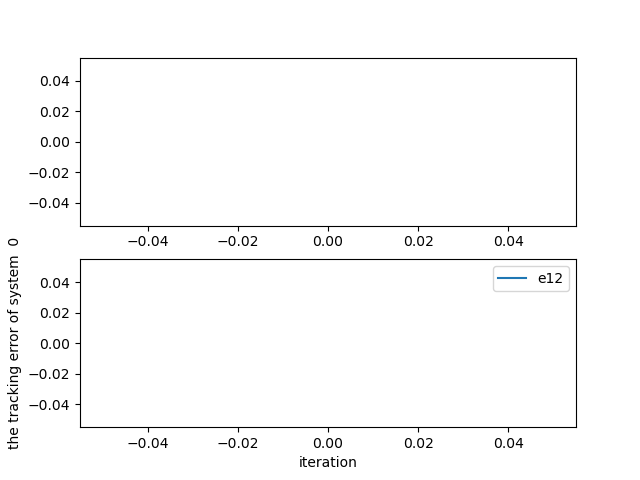
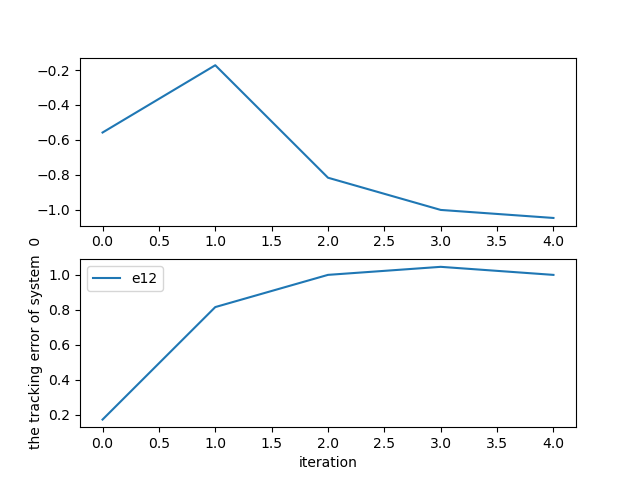
fail

diff --git a/main.py b/main.py
@@ -1,9 +1,11 @@
+import random
+
 from simulation import update_x, update_xd, update_X, compute_deltaV, compute_VX, Gx,compute_X, compute_x_from_X, compute_e_xd_from_X
 from ac import compute_critic_activate, compute_critic, init_critic_weight, compute_actor_activate, compute_actor, \
     init_actor_weight, compute_u, compute_PHI_THETA_C
 import numpy as np
-import torch as th
-import math
+
+from constant import Constant
 
 from plot import draw_weight, draw_x_xd, draw_value
 
@@ -13,70 +15,98 @@ def step(U, t, x, xd, p):
     # print(x, xd)
     return next_x, next_xd
 
-def update_ac2(History, Wc, Wa, N0):
+def update_ac2(History, Wc, Wa):
     Wa_new = []
     Wc_new = []
     for i in range(3):
         first = np.zeros((52, 52))
         second = np.zeros((52, 1))
-        for p in range(N0):
+        count = 0
+        for p in range(len(History)):
             X, U, Xnext, Unext = History[p]
-            PHI_p, THETA_p, C_p = compute_PHI_THETA_C(X[i], Xnext[i], U[i], Unext[i], Wc[i], Wa[i])
+            try:
+                PHI_p, THETA_p, C_p = compute_PHI_THETA_C(X[i], Xnext[i], U[i], Unext[i], Wc[i], Wa[i])
+            except:
+                continue
+            # print(PHI_p.T.shape, C_p.shape)
+            if np.isnan(PHI_p).any() or np.isnan(THETA_p).any() or np.isnan(C_p).any():
+                continue
+
+            count += 1
             first += np.matmul(PHI_p.T, PHI_p)
             second += PHI_p.T * C_p
-            # print(C_p)
 
-        # print(first, second)
-        new_THETA = np.matmul(np.matrix(first).I, second)
+        print(i, 'real_N0', count)
+        try:
+            new_THETA = np.matmul(np.matrix(first).I, second)
+        except:
+            Wc_new.append(Wc[i])
+            Wa_new.append(Wa[i])
+            print(i, 'fail compute theta')
+            continue
+
         # print(new_THETA)
         Wc_new.append(new_THETA[:18])
         Wa_new.append(new_THETA[18:])
     # print(Wc_new, Wa_new)
     return Wc_new, Wa_new
 
-def train2(num=50, N0=56):
-    record = []
+def train2(n_round=625, n_step = 5, n_train=20, n_test=21):
     W_critic = [init_critic_weight() for _ in range(3)]
     W_actor = [init_actor_weight() for _ in range(3)]
     p = [(np.random.rand(3, 1)-0.5) * 2 for _ in range(3)]
 
-    System = {
-        'x': [[np.random.rand(2, 1) for _ in range(3)] for _ in range(N0)],
-        'xd': [[np.random.rand(2, 1) for _ in range(3)] for _ in range(N0)],
-    }
 
-    for i in range(num):
-        # print(W_critic)
+    w_record = []
+    w_record.append([W_critic, W_actor])
+    for iter in range(n_train):
+        print(iter, 'sample and train')
+
         history = []
-        for m in range(N0):
-            X = [compute_X(xi - xdi, xdi) for xi, xdi in zip(System['x'][m], System['xd'][m])]
-            U = [compute_u(X[i], W_actor[i])[0, 0] for i in range(3)]
-            x_next, xd_next = step(U, i, System['x'][m], System['xd'][m], p)
+        for i in range(n_round):
+            x = [np.random.rand(2, 1) for _ in range(3)]
+            xd = [np.random.rand(2, 1) for _ in range(3)]
+            for t in range(n_step):
+                X = [compute_X(xi - xdi, xdi) for xi, xdi in zip(x, xd)]
+                U = [compute_u(X[i], W_actor[i])[0, 0] for i in range(3)]
 
-            X_next = [compute_X(xi - xdi, xdi) for xi, xdi in zip(x_next, xd_next)]
-            U_next = [compute_u(X_next[i], W_actor[i])[0,0] for i in range(3)]
-            history.append([X, U, X_next, U_next])
+                x_next, xd_next = step(U, t, x, xd, p)
+                # print(x_next)
+                X_next = [compute_X(xi - xdi, xdi) for xi, xdi in zip(x_next, xd_next)]
+                U_next = [compute_u(X_next[i], W_actor[i])[0, 0] for i in range(3)]
+                history.append([X, U, X_next, U_next])
 
-            System['x'][m] = x_next
-            System['xd'][m] = xd_next
+                x = x_next
+                xd = xd_next
 
-            if p == 0:
-                record.append(
-                    [W_critic, W_actor,
-                     [System['x'][0], System['xd'][0]], U])
 
-        W_critic, W_actor = update_ac2(history, W_critic, W_actor, N0)
+        W_critic, W_actor = update_ac2(history, W_critic, W_actor)
+        w_record.append([W_critic, W_actor])
 
-    return record
+    print('test')
+
+    test_record = []
+    x = [np.random.rand(2, 1) for _ in range(3)]
+    xd = [np.random.rand(2, 1) for _ in range(3)]
+    for t in range(n_test):
+
+        X = [compute_X(xi - xdi, xdi) for xi, xdi in zip(x, xd)]
+        U = [compute_u(X[i], W_actor[i])[0, 0] for i in range(3)]
+
+        test_record.append([(x, xd), U])
+        x_next, xd_next = step(U, t, x, xd, p)
+        # print(x_next)
+        x = x_next
+        xd = xd_next
+
+    return w_record, test_record
 
 
 if __name__ == '__main__':
-    record = train2(2)
-    u_list = [rc[3] for rc in record]
-    draw_value(u_list, 'The Control Input')
+    w_record, test_record = train2()
 
-    Wc_history = [[rc[0][i] for rc in record] for i in range(3)]
-    Wa_history = [[rc[1][i] for rc in record] for i in range(3)]
+    Wc_history = [[rc[0][i] for rc in w_record] for i in range(3)]
+    Wa_history = [[rc[1][i] for rc in w_record] for i in range(3)]
 
     for index, history in enumerate(Wc_history):
         draw_weight(history, 'The critic NN weight of system ' + str(index))
@@ -84,6 +114,9 @@ if __name__ == '__main__':
     for index, history in enumerate(Wa_history):
         draw_weight(history, 'The actor NN weight of system ' + str(index))
 
-    x_xd = [rc[2] for rc in record]
+    x_xd = [rc[0] for rc in test_record]
     draw_x_xd(x_xd)
+
+    u_list = [rc[1] for rc in test_record]
+    draw_value(u_list, 'The Control Input')
 

diff --git a/main_despart_test.py b/main_despart_test.py
@@ -1,0 +1,92 @@
+from simulation import update_x, update_xd, update_X, compute_deltaV, compute_VX, Gx,compute_X, compute_x_from_X, compute_e_xd_from_X
+from ac import compute_critic_activate, compute_critic, init_critic_weight, compute_actor_activate, compute_actor, \
+    init_actor_weight, compute_u, compute_PHI_THETA_C
+import numpy as np
+import torch as th
+import math
+
+from plot import draw_weight, draw_x_xd, draw_value
+
+def step(U, t, x, xd, p):
+    next_x = update_x(x, U, p, t)
+    next_xd = update_xd(xd)
+    # print(x, xd)
+    return next_x, next_xd
+
+def update_ac2(History, Wc, Wa, N0):
+    Wa_new = []
+    Wc_new = []
+    for i in range(3):
+        first = np.zeros((52, 52))
+        second = np.zeros((52, 1))
+        for p in range(N0):
+            X, U, Xnext, Unext = History[p]
+            PHI_p, THETA_p, C_p = compute_PHI_THETA_C(X[i], Xnext[i], U[i], Unext[i], Wc[i], Wa[i])
+            first += np.matmul(PHI_p.T, PHI_p)
+            second += PHI_p.T * C_p
+            # print(C_p)
+
+        # print(first, second)
+        new_THETA = np.matmul(np.matrix(first).I, second)
+        # print(new_THETA)
+        Wc_new.append(new_THETA[:18])
+        Wa_new.append(new_THETA[18:])
+    # print(Wc_new, Wa_new)
+    return Wc_new, Wa_new
+
+def train2(num=50, N0=56):
+    record = []
+    W_critic = [init_critic_weight() for _ in range(3)]
+    W_actor = [init_actor_weight() for _ in range(3)]
+    p = [(np.random.rand(3, 1)-0.5) * 2 for _ in range(3)]
+
+    test_x = [np.random.rand(2, 1) for _ in range(3)]
+    test_xd = [np.random.rand(2, 1) for _ in range(3)]
+
+    for i in range(num):
+        # print(W_critic)
+        System = {
+            'x': [[np.random.rand(2, 1) for _ in range(3)] for _ in range(N0)],
+            'xd': [[np.random.rand(2, 1) for _ in range(3)] for _ in range(N0)],
+        }
+        history = []
+        for m in range(N0):
+            X = [compute_X(xi - xdi, xdi) for xi, xdi in zip(System['x'][m], System['xd'][m])]
+            U = [compute_u(X[i], W_actor[i])[0, 0] for i in range(3)]
+            x_next, xd_next = step(U, i, System['x'][m], System['xd'][m], p)
+            # print(x_next)
+            X_next = [compute_X(xi - xdi, xdi) for xi, xdi in zip(x_next, xd_next)]
+            U_next = [compute_u(X_next[i], W_actor[i])[0,0] for i in range(3)]
+            history.append([X, U, X_next, U_next])
+
+        X = [compute_X(xi - xdi, xdi) for xi, xdi in zip(test_x, test_xd)]
+        U = [compute_u(X[i], W_actor[i])[0, 0] for i in range(3)]
+        x_next, xd_next = step(U, i, test_x, test_xd, p)
+
+        record.append(
+            [W_critic, W_actor,
+             test_x, test_xd, U])
+        test_x, test_xd = x_next, xd_next
+
+        W_critic, W_actor = update_ac2(history, W_critic, W_actor, N0)
+
+    return record
+
+
+if __name__ == '__main__':
+    record = train2(20)
+    u_list = [rc[3] for rc in record]
+    draw_value(u_list, 'The Control Input')
+
+    Wc_history = [[rc[0][i] for rc in record] for i in range(3)]
+    Wa_history = [[rc[1][i] for rc in record] for i in range(3)]
+
+    for index, history in enumerate(Wc_history):
+        draw_weight(history, 'The critic NN weight of system ' + str(index))
+
+    for index, history in enumerate(Wa_history):
+        draw_weight(history, 'The actor NN weight of system ' + str(index))
+
+    x_xd = [rc[2] for rc in record]
+    draw_x_xd(x_xd)
+

diff --git a/simulation.py b/simulation.py
@@ -26,14 +26,20 @@ def update_x(x, U, p, t):
            p32 * x32 * (np.sin(x21) ** 2) +
            p33 * x12 * np.cos(x22))[0]
 
+    # print(U, [p1_, p2_, p3_])
+
     x1_ = (np.array([-x12, x11 * x12])
            + np.array([[0], 2 - np.cos(x12) ** 2]) * (u1 + p1_))
 
+    x1_ = np.clip(x1_, -1, 1)
+
     x2_ = (np.array([x22, -x21 - 0.5 * x22 + 0.5 * (x21 ** 2) * x22])
            + np.array([[0], 1 + np.cos(x21)]) * (u2 + p2_))
+    x2_ = np.clip(x2_, -1, 1)
 
     x3_ = (np.array([-x31 + x32, -0.5 * (x31 + x32)])
            + np.array([[0], 0.5 * x32 * ((2 + np.cos(2 * x31) ** 2) ** 2) + (2 + np.cos(2 * x21) ** 2)])* (u3 + p3_))
+    x3_ = np.clip(x3_, -1, 1)
 
     return x1_, x2_, x3_
 
@@ -100,8 +106,8 @@ def compute_VX(X, u, t):
     # print(u, u/alpha, np.arctanh(u/alpha).T)
 
     ratio = (np.matmul(np.matmul(X.T, Constant.Q), X)[0, 0]
-             # + 2 * alpha * R * (np.arctanh(u/alpha).T * u)
-             + 2 * Constant.alpha * Constant.R * (max(min(np.arctanh(u/Constant.alpha).T, 1000.0), -1000.0) * u)
+             + 2 * Constant.alpha * Constant.R * (np.arctanh(u/Constant.alpha).T * u)
+             # + 2 * Constant.alpha * Constant.R * (max(min(np.arctanh(u/Constant.alpha).T, 1000.0), -1000.0) * u)
              + Constant.alpha ** 2 * Constant.R * np.log(1 - (u[0] / Constant.alpha) ** 2))
     # print(np.dot(np.dot(X.T, Q), X), 2 * alpha * R * np.dot(np.arctanh(u/alpha).T, u), alpha ** 2 * R * np.log(1 - (u / alpha) ** 2))
     # print(X, u, t, ratio)
@@ -117,8 +123,8 @@ def compute_VX(X, u, t):
 def compute_deltaV(X, X_next, u, V):
 
     def f(tau):
-        ret = (max(min(np.arctanh(u/Constant.alpha).T, 1000.0), -1000.0)) * Constant.R
-        # ret = np.arctanh(u/alpha).T * R
+        # ret = (max(min(np.arctanh(u/Constant.alpha).T, 1000.0), -1000.0)) * Constant.R
+        ret = np.arctanh(u/Constant.alpha).T * Constant.R
         return ret
 
     pre = np.matmul(np.matmul(X.T, Constant.Q), X)[0,0] + 2 * Constant.alpha * integrate.quad(f, 0, u[0])[0] - Constant.lamb * V

diff --git a/ac.py b/ac.py
@@ -99,8 +99,8 @@ def compute_C(Xi, Xinext, Wa):
     def f2(Xf):
         return 2 * (Constant.alpha ** 2) * compute_actor(Xf, Wa).T * Constant.R * np.tanh(compute_actor(Xf, Wa))
     def f3(Xf):
-        # l = list([np.log(1 - np.tanh(Wa[j] * compute_actor_activate(Xf)[:, j]) ** 2) for j in range(len(Wa))])
-        l = list([min(100.0, max(-100.0, np.log(1 - np.tanh(Wa[j] * compute_actor_activate(Xf)[:, j]) ** 2))) for j in range(len(Wa))])
+        l = list([np.log(1 - np.tanh(Wa[j] * compute_actor_activate(Xf)[:, j]) ** 2) for j in range(len(Wa))])
+        # l = list([min(100.0, max(-100.0, np.log(1 - np.tanh(Wa[j] * compute_actor_activate(Xf)[:, j]) ** 2))) for j in range(len(Wa))])
         return ((Constant.alpha ** 2) * Constant.R
                 * sum(l))
     return (f1(Xi) + f1(Xinext)) / 2 + (f2(Xi) + f2(Xinext)) / 2 + (f3(Xi) + f3(Xinext)) / 2
